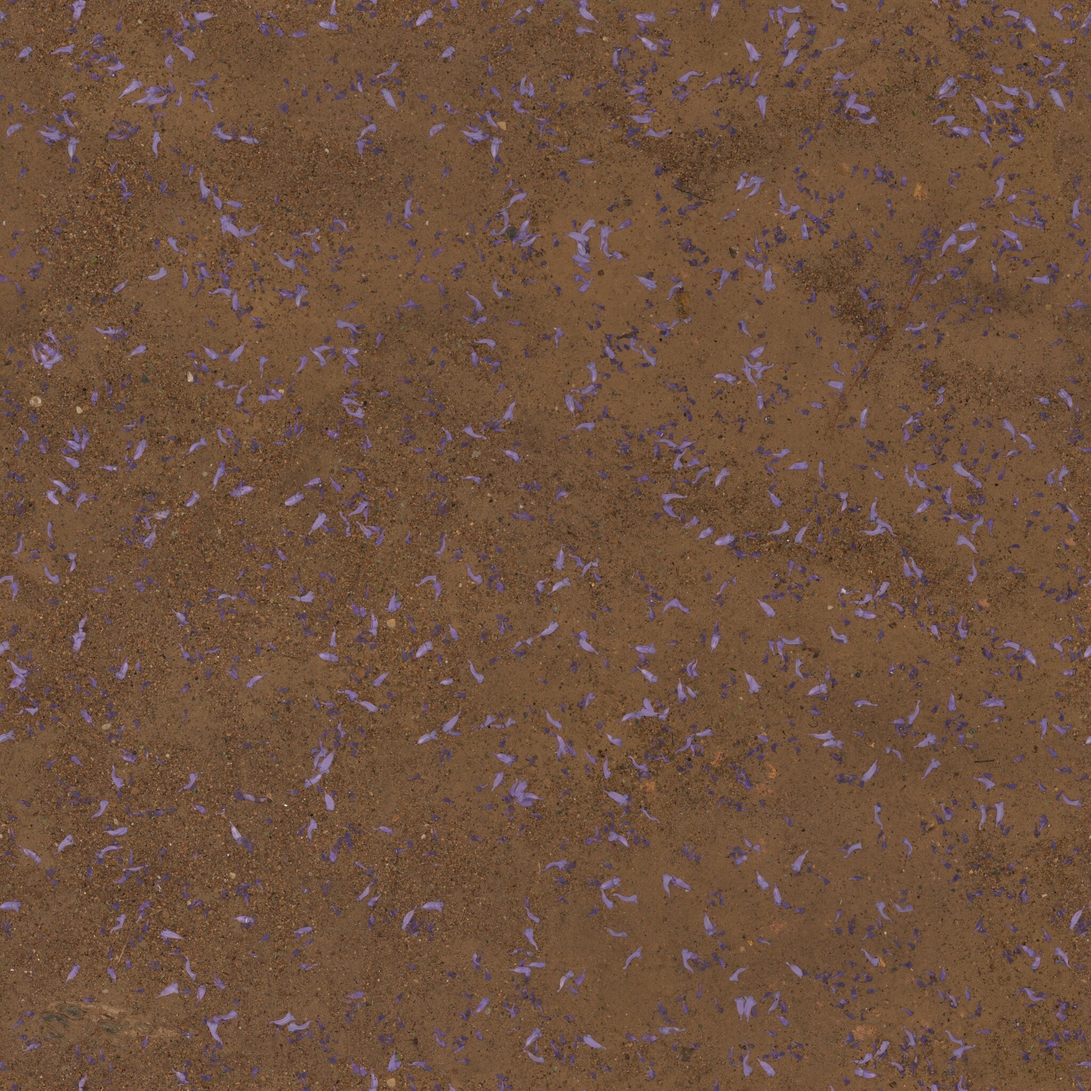
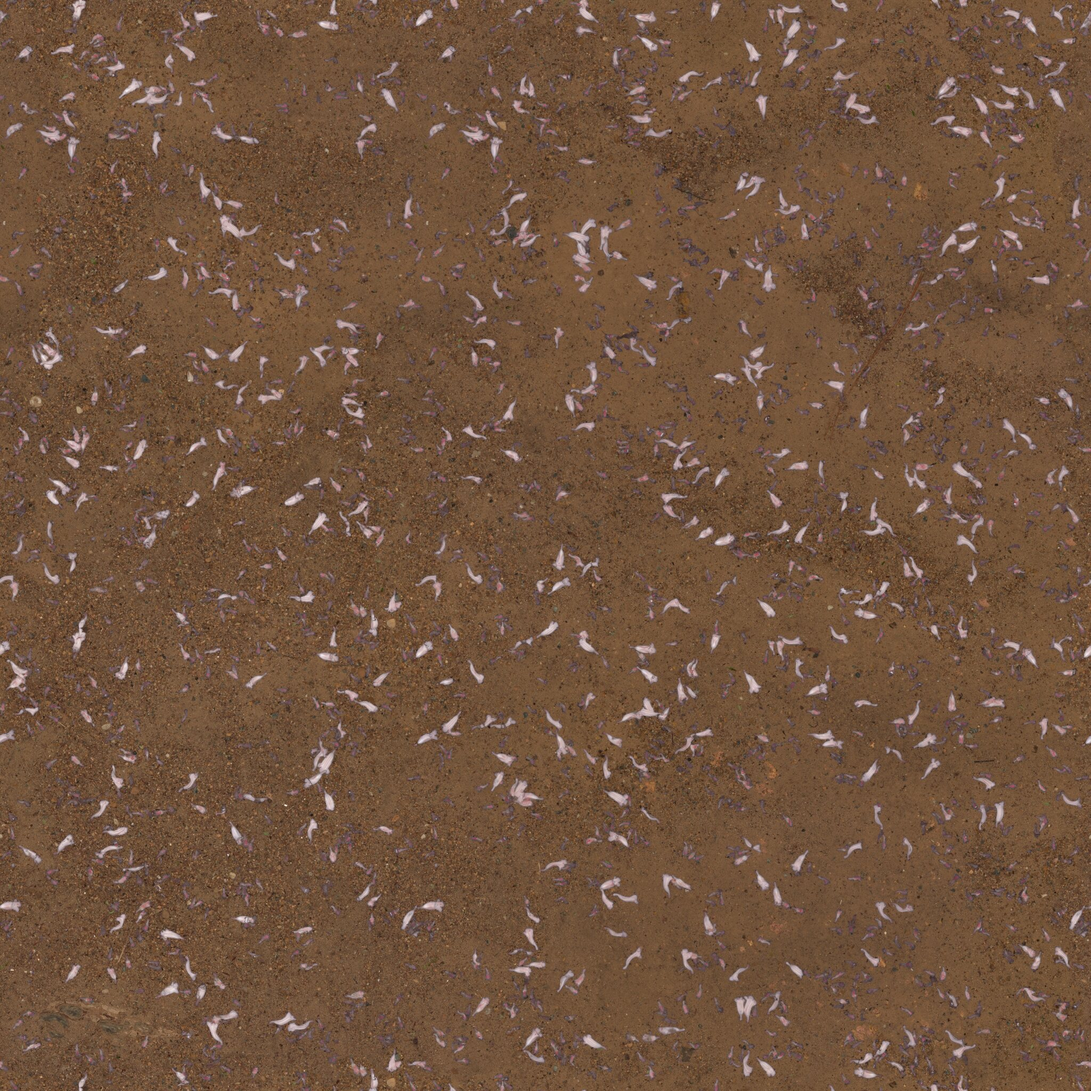
Give the Ice Crown sculpted blue ice for its cliffs, petals in cherry pink, and trim the library to 146 MB

diff --git a/src/render/materials/north.ts b/src/render/materials/north.ts
@@ -27,9 +27,11 @@ function set(region: RegionId, layers: MaterialLayer[]): MaterialSet {
   return { region, layers: byRole };
 }
 
-// The Ice Crown: white, pale blue and steel. Snow over blue ice, frost-white lichen on the outer rocks,
-// glassy refrozen leads at the waterline, dark shingle under the slush.
+// The Ice Crown: white, pale blue and steel. Snow over blue ice, sculpted blue ice in the pressure ridges
+// and spires, frost-white lichen on the outer rocks, glassy refrozen leads at the waterline, dark shingle
+// under the slush.
 const ice = (n: string, s: string) => scan('iceCrown', n, s);
+const iceFace = ice('iceface', ACG('Rock027'));
 const iceSnow = ice('snow', ACG('Snow005'));
 const iceLichen = ice('frostlichen', ACG('Rock046S'));
 const iceBlue = ice('blueice', ACG('Ice003'));
@@ -103,7 +105,7 @@ export const REGION_MATERIALS: Record<NorthRegionId, MaterialSet> = {
   iceCrown: set('iceCrown', [
     iceSnow('top', 4, [2.55, 2.68, 2.85], 0, 0.6),
     iceLichen('slope', 3, [2.0, 2.2, 2.7]),
-    iceBlue('cliff', 9, [1.75, 1.75, 1.7]),
+    iceFace('cliff', 8, [1.05, 1.22, 1.3], 0.2),
     iceRime('beach', 3, [1.74, 1.79, 1.72]),
     iceBlue('wetShore', 5, [0.95, 0.95, 0.98], 0.7),
     iceShingle('seabed', 4, [0.68, 0.84, 1.18], 0.5),
@@ -158,7 +160,7 @@ export const REGION_MATERIALS: Record<NorthRegionId, MaterialSet> = {
   ]),
   blossomRun: set('blossomRun', [
     blMeadow('top', 3, [1.39, 1.48, 2.09]),
-    blPetals('slope', 3, [1.4, 1.12, 1.4]),
+    blPetals('slope', 3, [1.08, 1.0, 1.02]),
     blBank('cliff', 6, [0.88, 0.96, 0.92]),
     blStones('beach', 3, [1.6, 1.8, 2.1]),
     blBed('wetShore', 3, [0.97, 1.02, 1.1], 0.7),

diff --git a/src/render/materials/northPreview.ts b/src/render/materials/northPreview.ts
@@ -34,7 +34,7 @@ const ss = (a: number, b: number, x: number) => { const t = Math.min(1, Math.max
 function patchHeight(x: number, z: number): number {
   const u = x + 5 * Math.sin(z * 0.07) + 2.5 * Math.sin(z * 0.19 + 1.3);
   const bumps = 0.6 * Math.sin(x * 0.31 + z * 0.17) * Math.sin(z * 0.27 - x * 0.11);
-  return -7 + 6.4 * ss(-48, -14, u) + 2.6 * ss(-16, -1, u) + 8 * ss(0, 17, u) + 15 * ss(20, 26, u) + bumps * ss(-20, 0, u) + 1.2 * bumps * ss(26, 34, u);
+  return -7 + 6.4 * ss(-48, -14, u) + 2.6 * ss(-16, -1, u) + 8 * ss(0, 17, u) + 15 * ss(20, 26, u) + bumps * ss(-20, 0, u) + 0.4 * bumps * ss(26, 34, u);
 }
 
 function terrainGeometry(): THREE.BufferGeometry {
@@ -277,7 +277,7 @@ const sunUniform = { value: new THREE.Vector3() };
 
 const LIGHTS = {
   day: { elev: 42, az: 140, colour: 0xfff4e2, power: 3.2, sky: 0xa9c6e8, ground: 0x4a4236, hemi: 1.0, bg: 0x8fb3d9, exposure: 1.0 },
-  dusk: { elev: 7, az: 215, colour: 0xff9a52, power: 2.4, sky: 0x6a6f9e, ground: 0x2c2230, hemi: 0.55, bg: 0x40405e, exposure: 1.25 },
+  dusk: { elev: 7, az: 215, colour: 0xff9a52, power: 2.4, sky: 0x6a6f9e, ground: 0x2c2230, hemi: 0.75, bg: 0x4a4866, exposure: 1.2 },
 };
 let light: keyof typeof LIGHTS = params.get('light') === 'dusk' ? 'dusk' : 'day';
 function applyLight(): void {

diff --git a/credits/materials-north.md b/credits/materials-north.md
@@ -1,11 +1,12 @@
 ## Textures: northern region ground materials (public/tex/regions, from Poly Haven and ambientCG, 2048² JPG)
 
 Each scan ships albedo, normal (OpenGL), roughness, ambient occlusion and a 1024² height map, re-encoded from the 2K
-downloads. Where the download had no AO map (Snow005, Ice003), the AO is derived from its height map. Two albedos are
-recoloured: Ice003 is gradient-mapped to blue ice, and Sparse Grass has a purple hue blended into its lighter strands
-for heather. All ambientCG materials are photogrammetry scans except Grass001, Grass007, Ice003 and Snow005, which are
+downloads. Where the download had no AO map (Snow005, Ice003), the AO is derived from its height map. Four albedos are
+recoloured: Ice003 and Rock027 are gradient-mapped to blue ice, Sparse Grass has a purple hue blended into its lighter
+strands for heather, and the jacaranda petals of Flower Scattered Dirt are shifted to pale cherry pink. All ambientCG materials are photogrammetry scans except Grass001, Grass007, Ice003 and Snow005, which are
 Substance-built (ambientCG's "procedural"); none is "Approximated".
 
+- Rock 027 — https://ambientcg.com/a/Rock027 — Lennart Demes (ambientCG) — CC0 (the Ice Crown: sculpted blue ice, cliff)
 - Snow 005 — https://ambientcg.com/a/Snow005 — Lennart Demes (ambientCG) — CC0 (the Ice Crown: snow, top)
 - Rock 046 S — https://ambientcg.com/a/Rock046S — Lennart Demes (ambientCG) — CC0 (the Ice Crown: frost lichen, slope)
 - Ice 003 — https://ambientcg.com/a/Ice003 — Lennart Demes (ambientCG) — CC0 (the Ice Crown: blue ice, cliff and wet shore)
